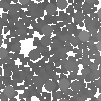
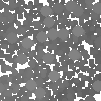
Optimize remove_trees

diff --git a/world_maker/terraforming.py b/world_maker/terraforming.py
@@ -31,11 +31,8 @@ def remove_trees(heightmap: Union[str, Image], treesmap: Union[str, Image], mask
         if mask.getpixel((x, z)) != 0 and treesmap.getpixel((x, z)) > 0:
 
             tree_area = morphology.flood(treesmap, (z, x), tolerance=1)
-            blend = img.blend(img.fromarray(tree_area).convert(
-                'L'), removed_treesmap.convert('L'), 0.5)
-            array = np.array(blend.convert('L'))
-            bool_array = array > 1
-            removed_treesmap = img.fromarray(bool_array)
+            removed_treesmap = img.fromarray(
+                np.where(tree_area, treesmap, 0).astype(np.uint8))
 
             y = heightmap.getpixel((x, z))
             y_top = removed_treesmap.getpixel((x, z))
